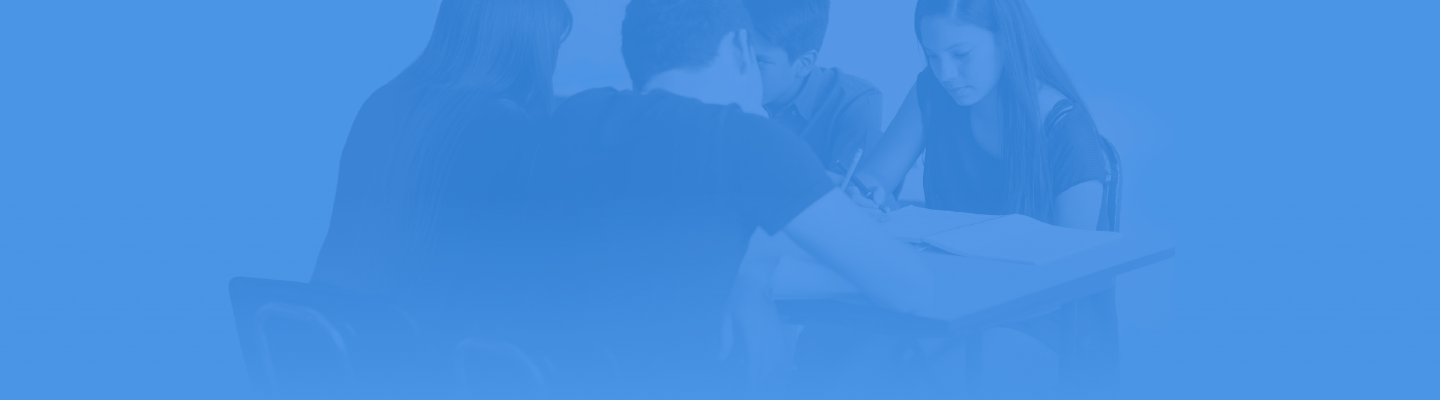
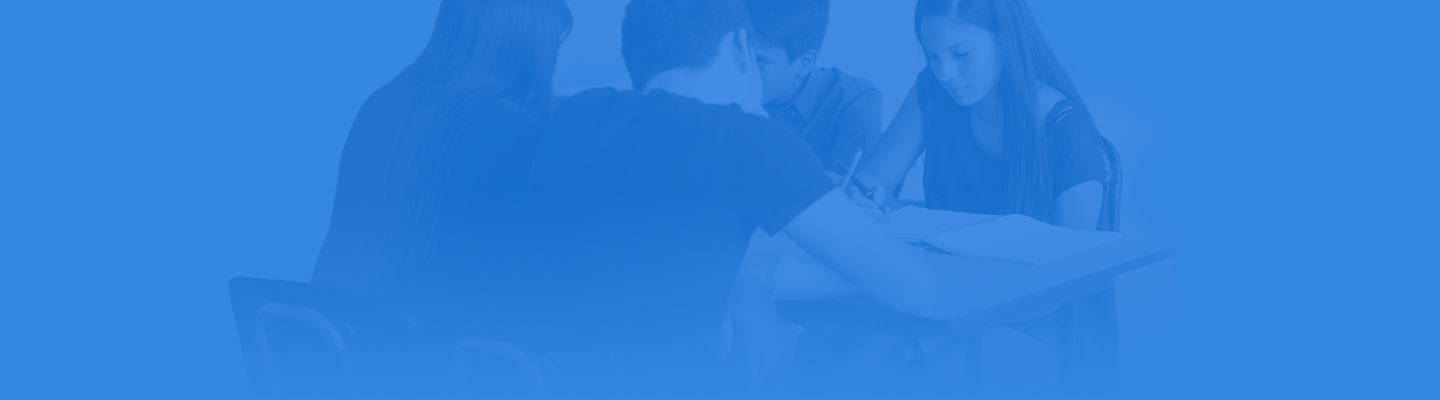
BP-2513 fix image

Changed region(s): [[0.2188, 0.0, 0.7812, 0.75], [0.625, 0.6, 0.6562, 0.63], [0.1562, 0.69, 0.1875, 0.72]]

diff --git a/app/blocks/n-university/l-home-university/l-home-university.scss b/app/blocks/n-university/l-home-university/l-home-university.scss
@@ -19,7 +19,7 @@
 
 .l-home-university__section_search {
     color: #ffffff;
-    background: url("/static/images/n-university/l-home-university/img/blue-bg.png") center top no-repeat #3985E0;
+    background: url("/static/images/n-university/l-home-university/img/blue-bg.png") center top no-repeat #3487e2;
 
     @include pixel-ratio-2x {
         background-image: url("/static/images/n-university/l-home-university/img/blue-bg@2x.png");
